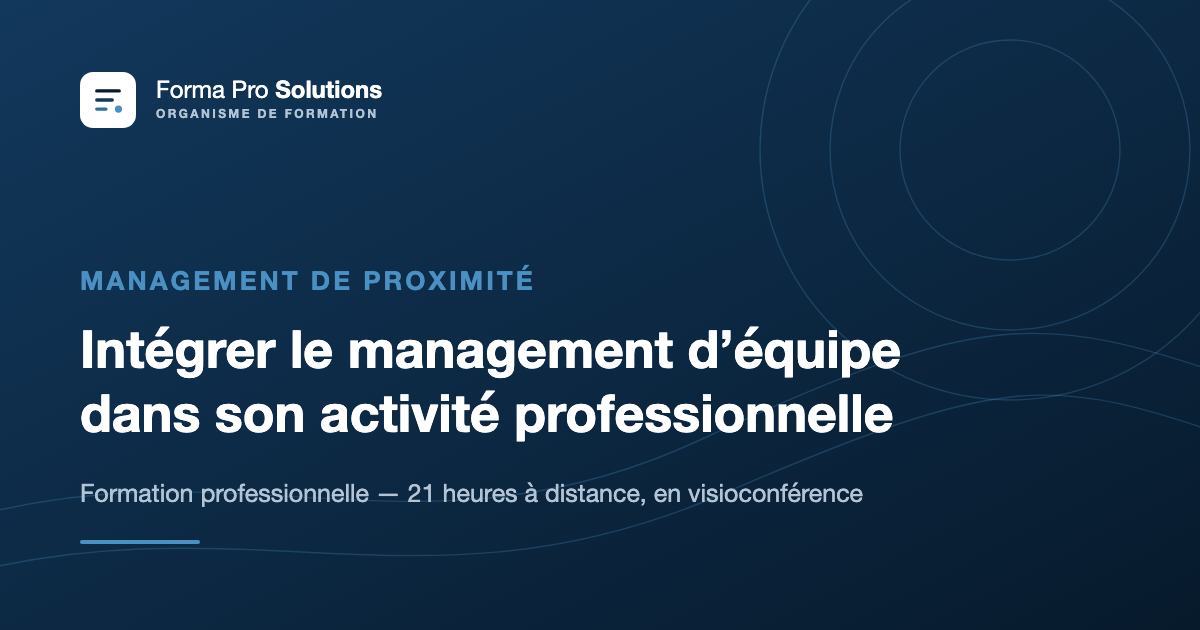
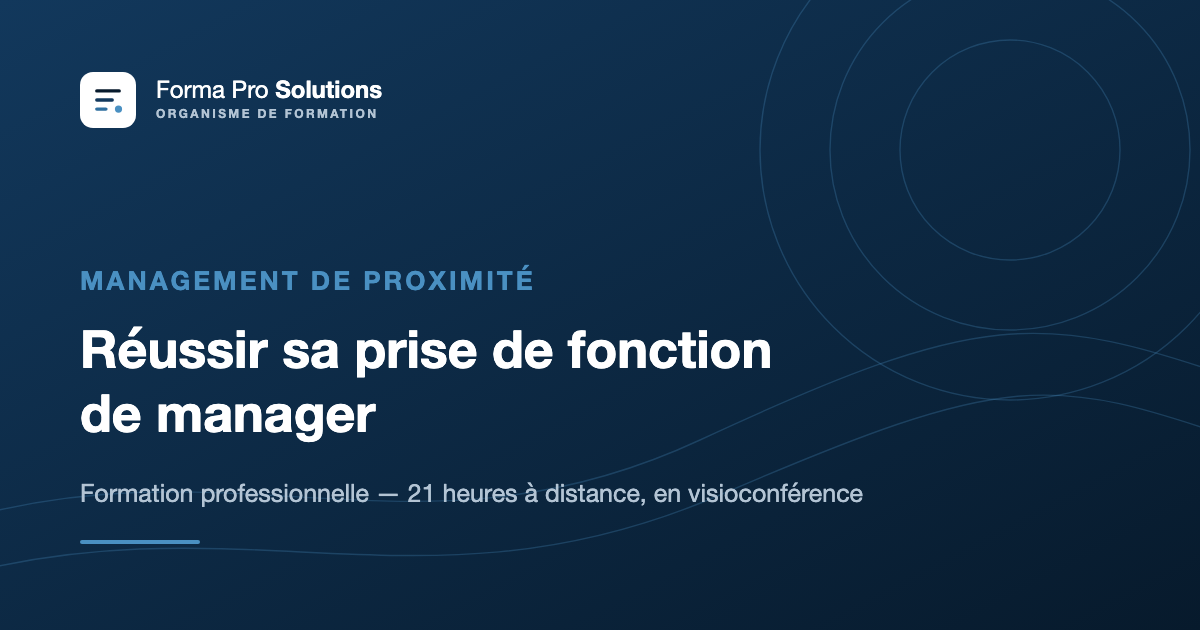
Renommer la formation et alléger la page formation
- Nouveau titre « Réussir sa prise de fonction de manager » partout :
  données, page formation, accueil, à propos (via training.title),
  CGV article 2, balises title et meta description, visuel Open Graph
  régénéré, README.
- Page formation : suppression du bloc « Compétences visées » et des
  six compétences ; seuls les objectifs pédagogiques subsistent. Les
  données structurées exposent désormais les objectifs pédagogiques.
- Public visé et prérequis reformulés (répercutés dans le tableau de
  synthèse et dans la section dédiée).
- Accueil : retrait du renvoi aux six compétences.

Changed region(s): [[0.0617, 0.5127, 0.7708, 0.7238]]

diff --git a/README.md b/README.md
@@ -1,7 +1,7 @@
 # Forma Pro Solutions — site vitrine
 
 Site vitrine de l'organisme de formation **Forma Pro Solutions** (SASU, dirigée par Kamel TREA),
-présentant la formation **Intégrer le management d'équipe dans son activité professionnelle**.
+présentant la formation **Réussir sa prise de fonction de manager**.
 
 > **⚠ Retrait temporaire de la certification RS6931.** À la demande du certificateur, toute mention
 > de la certification RS6931 a été retirée du site tant que l'habilitation n'est pas validée.
